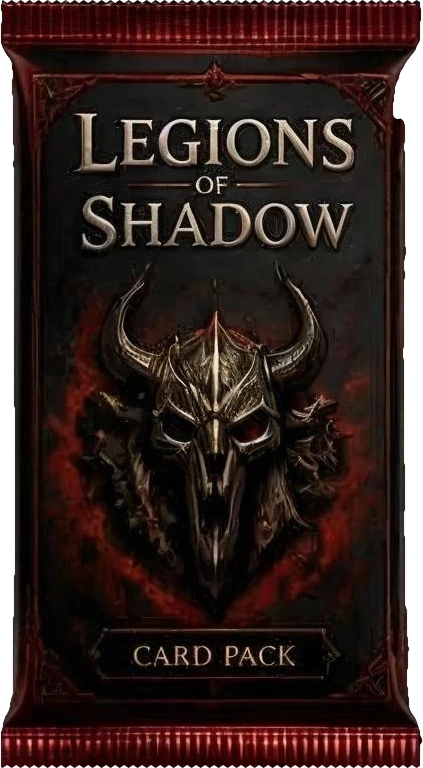
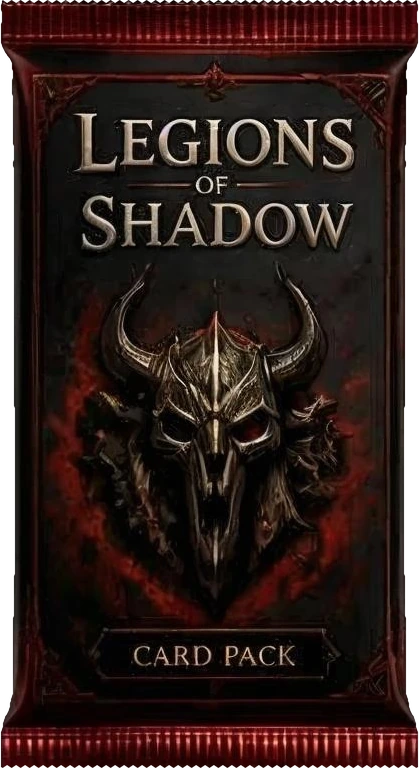
Legions of Shadow pack: symmetric outline, no notch on the right edge (pack_cutout --mirror)

diff --git a/src/i18n/cs/data/patchNotes.ts b/src/i18n/cs/data/patchNotes.ts
@@ -11,6 +11,7 @@ const notes: PatchNotesOverlay = {
         'Schopnosti Strážce mají jemný nádech barvy jeho frakce.',
         'Editor balíčku: chybějící karty vyrobíš přímo na kartě (tlačítko Vyrobit s cenou v esenci); nová kopie jde rovnou do balíčku.',
       ],
+      ['Balíček Legions of Shadow už nemá zářez na pravém okraji.'],
     ],
   },
   '0.24.3': {

diff --git a/src/data/patchNotes.ts b/src/data/patchNotes.ts
@@ -33,6 +33,7 @@ export const PATCH_NOTES: PatchNote[] = [
           'Deck editor: craft cards you are missing right on the card (Craft button with its Essence cost); the new copy goes straight into your deck.',
         ],
       },
+      { kind: 'fixed', items: ['The Legions of Shadow pack no longer has a notch in its right edge.'] },
     ],
     commits: [],
   },

diff --git a/tools/pack_cutout.py b/tools/pack_cutout.py
@@ -11,7 +11,7 @@ Very dark packs whose sides are invisible borrow the side profile of another pac
 the same sheet row (--shape-from), since all packs share one template.
 
 Usage (Pillow + numpy):
-  python tools/pack_cutout.py SHEET.jpg COL ROW OUT.webp [--shape-from COL ROW] [--kingdoms-patch] [--row-shift DY]
+  python tools/pack_cutout.py SHEET.jpg COL ROW OUT.webp [--shape-from COL ROW] [--kingdoms-patch] [--row-shift DY] [--bg-flood] [--mirror]
 Check the result on a magenta background and the outline over a brightened original before shipping.
 """
 import argparse
@@ -142,6 +142,26 @@ def bg_flood_cutout(A: np.ndarray, tol: int = 7, erode: int = 0) -> Image.Image:
     return rgba.crop(rgba.getchannel('A').point(lambda v: 255 if v > 8 else 0).getbbox())
 
 
+def mirror_left_edge(img: Image.Image) -> Image.Image:
+    """Packs are symmetric: rebuild the right edge of the alpha mask by mirroring the left one
+    across the pack axis (fixes notches where the background leaked through a gap in the rim)."""
+    A = np.asarray(img).copy()
+    a = A[:, :, 3]
+    h, w = a.shape
+    rows = [y for y in range(h) if (a[y] > 128).any()]
+    lefts = np.array([np.where(a[y] > 128)[0].min() for y in rows])
+    rights = np.array([np.where(a[y] > 128)[0].max() for y in rows])
+    axis2 = float(np.median(lefts + rights))  # 2 x axis, robust against the notch rows
+    out = a.copy()
+    for y in rows:
+        for x in range(int(np.ceil(axis2 / 2)), w):
+            src = int(round(axis2 - x))
+            out[y, x] = a[y, src] if 0 <= src < w else 0
+    A[:, :, 3] = out
+    res = Image.fromarray(A, 'RGBA')
+    return res.crop(res.getchannel('A').point(lambda v: 255 if v > 8 else 0).getbbox())
+
+
 def main():
     ap = argparse.ArgumentParser()
     ap.add_argument('sheet')
@@ -152,6 +172,7 @@ def main():
     ap.add_argument('--kingdoms-patch', action='store_true', help='cover the stray line in the Kingdoms at War art')
     ap.add_argument('--threshold', type=int, default=16, help='side-profile background level (packs4: 30)')
     ap.add_argument('--edges', nargs=2, type=int, metavar=('TOP', 'BOTTOM'), help='seal top/bottom in crop pixels when the texture measurement fails (packs4 Legions: 17 803)')
+    ap.add_argument('--mirror', action='store_true', help='make the right edge a mirror of the left (packs4 Legions of Shadow)')
     ap.add_argument('--bg-flood', action='store_true', help='remove the even background instead of measuring edges (packs4)')
     ap.add_argument('--erode', type=int, default=0, help='with --bg-flood: shrink by this many px to drop the drop shadow (packs4: 12)')
     ap.add_argument('--row-shift', type=int, default=0, help='move the row ranges by this many 1x pixels (packs4: -18)')
@@ -167,6 +188,8 @@ def main():
             A[y, 38 * S + M: 166 * S + M] = A[src[t % len(src)], 38 * S + M: 166 * S + M]
     template = crop(sheet, *a.shape_from) if a.shape_from else None
     img = bg_flood_cutout(A, erode=a.erode) if a.bg_flood else cutout(A, template, tuple(a.edges) if a.edges else None)
+    if a.mirror:
+        img = mirror_left_edge(img)
     img.save(a.out, quality=92, method=6)
     print(a.out, img.size)
 
